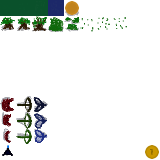
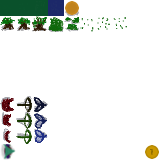
new player sprite

Changed region(s): [[0.0, 0.875, 0.0938, 1.0]]

diff --git a/player.go b/player.go
@@ -1,8 +1,6 @@
 package main
 
 import (
-	"math"
-
 	"github.com/faiface/pixel"
 	"github.com/faiface/pixel/pixelgl"
 )
@@ -21,7 +19,7 @@ type player struct {
 }
 
 func (p *player) update(dt float64, win *pixelgl.Window) leveler {
-	p.angle = winBounds.Center().To(win.MousePosition()).Angle() - math.Pi/2
+	p.angle = winBounds.Center().To(win.MousePosition()).Angle()
 	return currentLvl
 }
 

diff --git a/README.md b/README.md
@@ -21,8 +21,8 @@ Mostly unordered list, priority may come later.
  - [x] ToDo list
  - [x] Dialogue
  - [x] Upgrade screen
- - [ ] Character static sprite
- - [ ] Enemy static sprites
+ - [x] Character static sprite
+ - [x] Enemy static sprites
  - [x] Level design
    - [x] Tiles spritesheet
    - [x] Create level
